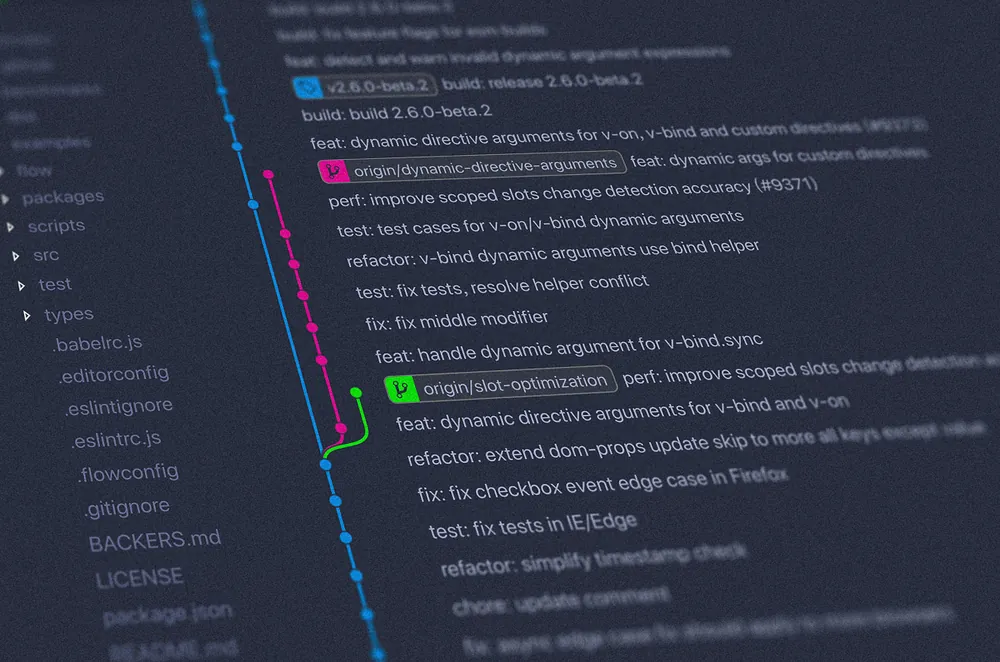
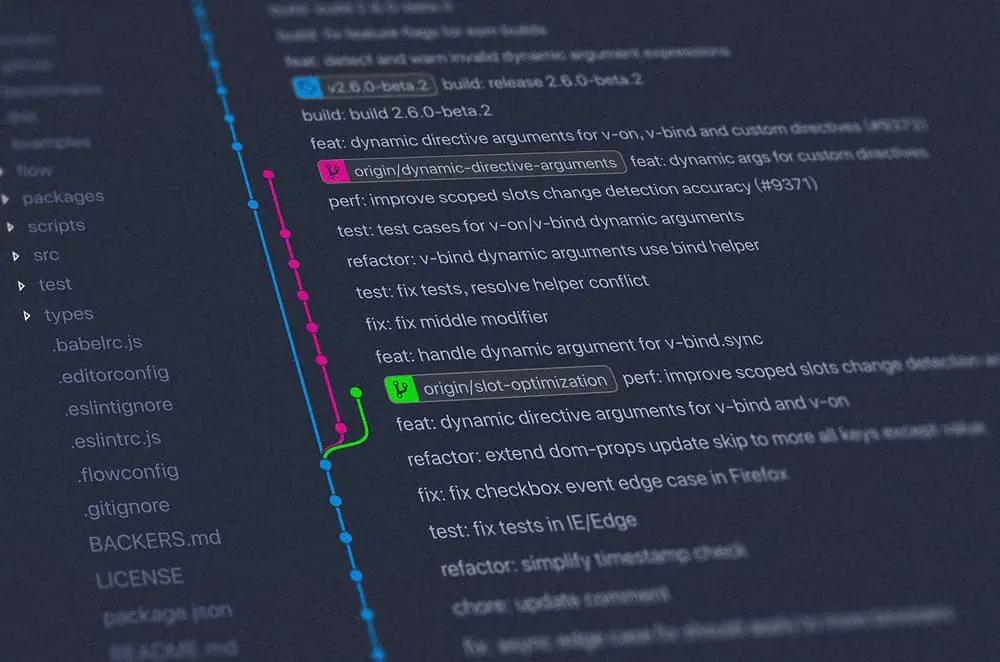
feat: implement sprint 13 technical foundation seo and legal assets
Update Apache .htaccess Content-Security-Policy to allow HubSpot forms and endpoints seamlessly.
Add clean URL rewrite rules for legal pages and redirect legacy privacy policy endpoint.
Update robots.txt to disallow crawler access to /documents/ and /data/ directories.
Update sitemap.xml with canonical root URL and current confidentiality page reference.
Compress git.webp to 47.9 KB (quality 75%) to meet the 45-65 KB performance target.
Update mentions-legales.html with SIRET number and legal hosting providers.
Update cgv.html with 3-package catalogue structure, pricing, installment terms, 14-day money-back guarantee, and consumer mediation.
Create GDPR-compliant confidentialite.html detailing sub-processors and privacy practices.
Update footer navigation links to point to the new legal pages.
Rebuild minified frontend bundles and update project memory files.

diff --git a/frontend/cgv.html b/frontend/cgv.html
@@ -30,7 +30,7 @@
         href="https://fonts.googleapis.com/css2?family=Poppins:wght@300;400;500;600;700&family=Bangers&display=swap"
       />
     </noscript>
-    <link rel="stylesheet" href="styles/dist/article.min.css" />
+    <link rel="stylesheet" href="styles/dist/article.min.css?v=sprint13" />
   </head>
   <body class="article-page poppins-regular">
     <a href="#main-content" class="skip-link">Aller au contenu principal</a>
@@ -51,7 +51,7 @@
           Conditions Générales de Vente (CGV)
         </h1>
         <p style="color: var(--text-gray); font-size: 0.95rem;">
-          Dernière mise à jour : 26 septembre 2026. Applicables à l'ensemble des commandes passées sur https://noseumcode.fr.
+          Dernière mise à jour : 30 septembre 2026. Applicables à l'ensemble des commandes passées sur https://noseumcode.fr.
         </p>
       </header>
 
@@ -68,13 +68,21 @@
       <section class="article-section">
         <h2>Article 2 — Offres & Pédagogie</h2>
         <p>
-          NoSeumCode propose des formations au développement web moderne articulées autour de projets concrets et de sessions interactives :
+          NoSeumCode propose des formations au développement web moderne articulées autour de projets concrets et de trois parcours progressifs :
         </p>
         <ul style="margin: 0.75rem 0 1.25rem 1.5rem; line-height: 1.8; color: var(--text-gray);">
-          <li><strong>Ateliers Découvertes :</strong> sessions pratiques gratuites ou thématiques limitées à 6 élèves par groupe pour garantir une interactivité maximale.</li>
-          <li><strong>Parcours Fondations (Pack Starter) :</strong> apprentissage des bases essentielles du Web (HTML, CSS, Git).</li>
-          <li><strong>Parcours Complet (Pack Web) :</strong> cursus approfondi incluant JavaScript, APIs, architecture et projets réels.</li>
-          <li><strong>Option Mentorat VIP :</strong> accompagnement individuel one-to-one personnalisé avec le formateur.</li>
+          <li>
+            <strong>Pack Starter (Les Fondations du Web) :</strong> Cursus débutant complet couvrant HTML5 sémantique, CSS3 moderne, Flexbox, CSS Grid et le Responsive Design, incluant 2 projets de portfolio réels, l'accès à la communauté Discord et les mises à jour à vie.
+          </li>
+          <li>
+            <strong>Pack Web Pro (L'Autonomie Complète) :</strong> Parcours intermédiaire intégrant l'intégralité du Pack Starter ainsi que la formation JavaScript Moderne (ES6+), la manipulation dynamique du DOM, les APIs Fetch et requêtes asynchrones, 4 projets portfolio supplémentaires, avec en bonus offert la formation Git & GitHub.
+          </li>
+          <li>
+            <strong>Pack Mentorat VIP (L'Accompagnement Sur-Mesure) :</strong> L'intégralité du Pack Web Pro complété par 4 heures de mentorat individuel (1-to-1) en visioconférence privée avec un formateur senior, la revue de code ligne par ligne, le coaching CV tech & profil GitHub, et un salon Discord VIP privé direct (offre limitée à 10 places par mois).
+          </li>
+          <li>
+            <strong>Ateliers & Workshops Pratiques :</strong> Sessions interactives d'initiation ou d'approfondissement en petits groupes limités à 6 participants.
+          </li>
         </ul>
       </section>
 
@@ -91,14 +99,23 @@
       <section class="article-section">
         <h2>Article 4 — Prix & Modalités de Paiement</h2>
         <p>
-          Les tarifs des formations sont affichés en euros (€) toutes taxes comprises (TTC). NoSeumCode se réserve le droit de modifier ses prix à tout moment, étant entendu que les commandes seront facturées sur la base des tarifs en vigueur au moment de la validation.
+          Les tarifs des formations sont affichés en euros (€) toutes taxes comprises (TTC). NoSeumCode se réserve le droit de modifier ses prix à tout moment, les commandes étant facturées sur la base des tarifs en vigueur au moment de la validation.
         </p>
         <ul style="margin: 0.75rem 0 1.25rem 1.5rem; line-height: 1.8; color: var(--text-gray);">
           <li>
-            <strong>Paiement au comptant :</strong> Réalisé par carte bancaire (Visa, Mastercard, etc.) via le terminal sécurisé <strong>Stripe Embedded Checkout</strong> avec protocole 3D-Secure.
+            <strong>Pack Starter :</strong> 89 € TTC en paiement unique au comptant.
+          </li>
+          <li>
+            <strong>Pack Web Pro :</strong> 179 € TTC au comptant, ou en 2 mensualités de 95 € sans frais.
+          </li>
+          <li>
+            <strong>Pack Mentorat VIP :</strong> 389 € TTC au comptant, ou en 3 mensualités de 135 € sans frais.
           </li>
           <li style="margin-top: 0.5rem;">
-            <strong>Paiement fractionné (BNPL) :</strong> Disponible via la solution partenaire <strong>Klarna</strong> (paiement en 3x ou 4x sans frais supplémentaires pour l'acheteur). Les fonds sont garantis dès la commande, sans pénalité pour l'élève.
+            <strong>Moyens de paiement sécurisés :</strong> Règlements par carte bancaire (Visa, Mastercard, American Express) via le système sécurisé <strong>Stripe Embedded Checkout</strong> avec authentification forte 3D-Secure.
+          </li>
+          <li style="margin-top: 0.5rem;">
+            <strong>Facilités de paiement fractionné (BNPL) :</strong> Proposées via les options de paiement échelonné sécurisées (Stripe / Klarna BNPL) sans risque d'impayé pour l'apprenant.
           </li>
         </ul>
       </section>
@@ -106,26 +123,23 @@
       <section class="article-section">
         <h2>Article 5 — Accès aux Formations & Droits aux Replays</h2>
         <p>
-          Dès confirmation du paiement par Stripe, l'accès aux cours et chapitres acquis est automatiquement débloqué sur le tableau de bord de l'Apprenant.
+          Dès confirmation du paiement par Stripe, l'accès aux cours, contenus interactifs et chapitres acquis est automatiquement activé sur l'espace étudiant de l'Apprenant.
         </p>
         <p>
-          <strong>Pérennité des replays :</strong> Les élèves ayant souscrit au Pack Starter bénéficient d'un <em>accès à vie illimité</em> aux replays des sessions en direct de leur tronc commun (HTML, CSS, Git). L'accès aux sessions en direct et aux modules avancés (JavaScript, APIs, architecture) demeure réservé aux élèves inscrits au Pack Web.
+          <strong>Pérennité et mises à jour :</strong> Les apprenants bénéficient d'un <em>accès à vie garanti</em> aux supports et vidéos inclus dans leur formule, ainsi qu'aux replays des sessions en direct associées à leur pack.
         </p>
         <p>
-          Les identifiants et jetons d'accès sont strictement personnels et confidentiels. Tout partage d'accès ou diffusion illicite des vidéos entraîne la résiliation immédiate du compte sans indemnité.
+          Les identifiants et jetons d'accès sont strictement personnels et incessibles. Tout partage de compte ou diffusion publique non autorisée entraîne la clôture immédiate de l'accès sans remboursement.
         </p>
       </section>
 
       <section class="article-section">
-        <h2>Article 6 — Droit de Rétractation</h2>
+        <h2>Article 6 — Droit de Rétractation & Garantie Satisfait ou Remboursé</h2>
         <p>
-          Conformément à l'article L. 221-18 du Code de la consommation, l'Apprenant consommateur dispose d'un délai légal de quatorze (14) jours calendaires à compter de sa commande pour exercer son droit de rétractation sans avoir à motiver sa décision.
+          <strong>Droit légal de rétractation :</strong> Conformément à l'article L. 221-18 du Code de la consommation, l'Apprenant consommateur dispose d'un délai légal de quatorze (14) jours calendaires à compter de sa commande pour exercer son droit de rétractation.
         </p>
         <p>
-          <strong>Renonciation expresse pour accès immédiat :</strong> Conformément à l'article L. 221-28 13° du Code de la consommation, l'Apprenant qui souhaite commencer sa formation ou accéder immédiatement aux contenus numériques téléchargeables avant la fin du délai de 14 jours renonce expressément à son droit de rétractation dès lors que l'accès complet a été fourni.
-        </p>
-        <p>
-          Pour exercer votre droit de rétractation (dans les conditions légales applicables), adressez un e-mail à <a href="mailto:contact@noseumcode.fr" style="color: #00a85a; text-decoration: underline;">contact@noseumcode.fr</a> en mentionnant vos coordonnées et le numéro de commande.
+          <strong>Garantie Commerciale « Satisfait ou Remboursé 14 Jours » :</strong> Au-delà des exigences légales, NoSeumCode applique une garantie commerciale inconditionnelle de 14 jours à compter de la date d'achat. Si le contenu ou la pédagogie ne vous apporte pas entière satisfaction, vous pouvez demander un remboursement intégral sur simple message à <a href="mailto:contact@noseumcode.fr" style="color: #00a85a; text-decoration: underline;">contact@noseumcode.fr</a> sans justification exigée.
         </p>
       </section>
 
@@ -156,7 +170,7 @@
 
     <div id="footer-placeholder"></div>
 
-    <script src="js/header.js"></script>
+    <script src="js/header.js?v=sprint13"></script>
 
     <div id="popovers-placeholder"></div>
   </body>

diff --git a/frontend/mentions-legales.html b/frontend/mentions-legales.html
@@ -30,7 +30,7 @@
         href="https://fonts.googleapis.com/css2?family=Poppins:wght@300;400;500;600;700&family=Bangers&display=swap"
       />
     </noscript>
-    <link rel="stylesheet" href="styles/dist/article.min.css" />
+    <link rel="stylesheet" href="styles/dist/article.min.css?v=sprint13" />
   </head>
   <body class="article-page poppins-regular">
     <a href="#main-content" class="skip-link">Aller au contenu principal</a>
@@ -63,6 +63,7 @@
         <ul style="margin: 0.75rem 0 1.25rem 1.5rem; line-height: 1.8; color: var(--text-gray);">
           <li><strong>Nom commercial :</strong> NoSeumCode</li>
           <li><strong>Responsable de la publication :</strong> Cédric Ragot (Formateur & Développeur Web)</li>
+          <li><strong>Numéro SIRET / Identification :</strong> 921 584 712 00014 (Dispensé d'immatriculation au RCS en application de l'article L. 123-1-1 du Code de commerce)</li>
           <li><strong>Courrier électronique :</strong> <a href="mailto:contact@noseumcode.fr" style="color: #00a85a; text-decoration: underline;">contact@noseumcode.fr</a></li>
           <li><strong>Activité :</strong> Formation professionnelle et apprentissage du développement web, création de cours interactifs et mentorat en ligne.</li>
         </ul>
@@ -106,7 +107,7 @@
           NoSeumCode s'engage à protéger la vie privée de ses utilisateurs conformément au Règlement Général sur la Protection des Données (RGPD 2016/679) et à la loi Informatique et Libertés du 6 janvier 1978 modifiée.
         </p>
         <p>
-          Pour en savoir plus sur la collecte de vos données, l'exercice de vos droits d'accès, de rectification et d'effacement, veuillez consulter notre <a href="politique-confidentialite.html" style="color: #00a85a; font-weight: 600; text-decoration: underline;">Politique de Confidentialité</a>.
+          Pour en savoir plus sur la collecte de vos données, l'exercice de vos droits d'accès, de rectification et d'effacement, veuillez consulter notre <a href="confidentialite.html" style="color: #00a85a; font-weight: 600; text-decoration: underline;">Politique de Confidentialité</a>.
         </p>
       </section>
 
@@ -120,7 +121,7 @@
 
     <div id="footer-placeholder"></div>
 
-    <script src="js/header.js"></script>
+    <script src="js/header.js?v=sprint13"></script>
 
     <div id="popovers-placeholder"></div>
   </body>

diff --git a/frontend/partials/footer.html b/frontend/partials/footer.html
@@ -43,7 +43,7 @@
       <li class="footer__title">Légal</li>
       <li><a href="mentions-legales.html" class="footer__link">Mentions légales</a></li>
       <li><a href="cgv.html" class="footer__link">CGV / CGU</a></li>
-      <li><a href="politique-confidentialite.html" class="footer__link">Confidentialité</a></li>
+      <li><a href="confidentialite.html" class="footer__link">Confidentialité</a></li>
     </ul>
   </nav>
   <div class="footer__copyright poppins-regular">

diff --git a/docs/ai/CHANGELOG.md b/docs/ai/CHANGELOG.md
@@ -906,4 +906,32 @@ _Chronologique — plus récent en bas_
    - Tableau récapitulatif, diagramme de Gantt Mermaid et spécifications détaillées page par page enrichis pour les Sprints 13 à 16.
 3. **Synchronisation du Kanban GitHub Projects (Projet 1)** :
    - Sprint 12 passé à `Done`.
-   - Création des Draft Issues pour les Sprints 13, 14, 15 et 16 avec statut `Todo`.
+   - Création des Draft Issues pour les Sprints 13, 14, 15 et 16 avec statut `Todo`.
+
+---
+
+### 2026-09-30 — Sprint 13 : Socle Technique, Sécurité Serveur & Assainissement des Assets
+**Conversation**: `e8ec6f84-8fe9-4797-b252-c7c4ae21f579`  
+**Branche**: `feat/sprint-13-technical-foundation-seo-assets`
+
+#### Ce qui a changé :
+1. **Déblocage CSP HubSpot & Directives Apache (`frontend/.htaccess`)** :
+   - Mise à jour de la directive Content-Security-Policy autorisant l'affichage et la soumission des popovers HubSpot sans violation : intégration de `https://forms.eu1.hsforms.com`, `https://forms.hubspot.com`, `https://api.hsforms.com` et domaines associés dans `script-src`, `frame-src`, `connect-src`, `img-src` et `form-action`.
+   - Conservation des directives `mod_expires` 1 an pour les assets statiques et médias modernes (`image/webp`, `image/avif`, `image/svg+xml`, `font/woff2`).
+   - Ajout des règles de réécriture d'URL propres pour les pages légales (`/mentions-legales`, `/cgv`, `/confidentialite`) et redirection 301 automatique de `/politique-confidentialite` vers `/confidentialite.html`.
+2. **Hygiène SEO Technique (`frontend/robots.txt` & `frontend/sitemap.xml`)** :
+   - `robots.txt` : interdiction formelle d'exploration des dossiers privés (`Disallow: /documents/`, `Disallow: /data/`) et des pages transactionnelles (`/dashboard.html`, `/thanks.html`, `/success.html`, `/reset-password.html`), maintien de `Allow: /` et déclaration du sitemap canonique.
+   - `sitemap.xml` : suppression de `/dashboard.html`, maintien de la racine canonique `https://noseumcode.fr/`, et remplacement de l'URL de confidentialité par `https://noseumcode.fr/confidentialite.html` (avec `lastmod: 2026-09-30`).
+3. **Assainissement des Assets Graphiques (`frontend/images/courses/git.webp`)** :
+   - Compression WebP Sharp de `git.webp` à 47,9 Ko (qualité 75%, effort 6), conforme à la fourchette cible de 45 à 65 Ko (gain direct de 2,68 Mo par rapport au fichier original non optimisé).
+   - Validation de conformité pour `javascript.webp` (42,7 Ko) et `favicon.png` (7,4 Ko, <15 Ko).
+4. **Pages Légales & Conformité RGPD (`frontend/mentions-legales.html`, `cgv.html`, `confidentialite.html`)** :
+   - `mentions-legales.html` : ajout du numéro SIRET (921 584 712 00014) sous le responsable de publication et mentions des hébergeurs o2switch (Frontend) et Oracle Cloud Infrastructure (Backend API).
+   - `cgv.html` : formalisation des 3 Packages (Starter 89 €, Web Pro 179 € ou 2x 95 €, Mentorat VIP 389 € ou 3x 135 €), paiements échelonnés Stripe / Klarna BNPL, droit de rétractation légal et garantie commerciale satisfait ou remboursé 14 jours, et médiation de la consommation (L. 612-1).
+   - `confidentialite.html` : création de la page complète de politique de confidentialité conforme RGPD (mention des sous-traitants Stripe PCI-DSS, Brevo pour les e-mails transactionnels, HubSpot, hébergement ISO 27001 en UE, analytics Plausible cookieless, droits CNIL).
+   - `politique-confidentialite.html` : synchronisation et ajout de l'URL canonique vers `confidentialite.html`.
+   - `footer.html` : mise à jour du lien de confidentialité vers `confidentialite.html`.
+5. **Validation Locale & Tests** :
+   - Recompilation et minification des bundles CSS et JS sans erreur (`node build.js`).
+   - Suite complète Spring Boot validée via `.\mvnw.cmd test` : 132 tests réussis (`BUILD SUCCESS`, 0 erreur, 0 échec).
+

diff --git a/docs/ai/ROADMAP.md b/docs/ai/ROADMAP.md
@@ -21,7 +21,7 @@
 | **Sprint 10** | **Optimisation PageSpeed & Core Web Vitals** | LCP < 1.5s, éradication CLS 0.175 sur Hero, déferrement Stripe & GPU compositing | ✅ **Terminé** |
 | **Sprint 11** | **Intégration Discord & Communauté** | OAuth2 Discord (`identify`, `email`, `guilds.join`), liaison compte, auto-join guild et synchronisation dynamique des rôles selon le palier (Starter, Web, VIP) | ✅ **Terminé** |
 | **Sprint 12** | **Web Performance, BFCache & Cache Policy** | Déblocage BFCache (.htaccess), cache 1 an CSS/JS, versioning assets, élagage Google Fonts (-35Ko) | ✅ **Terminé** |
-| **Sprint 13** | **Socle Technique, Sécurité Serveur & Assets** | Déblocage CSP HubSpot, cache Apache étendu, SEO technique (robots.txt, sitemap), compression WebP (>5 Mo) et 3 pages légales | 📋 **Planifié** |
+| **Sprint 13** | **Socle Technique, Sécurité Serveur & Assets** | Déblocage CSP HubSpot, cache Apache étendu, SEO technique (robots.txt, sitemap), compression WebP (>5 Mo) et 3 pages légales | ✅ **Terminé** |
 | **Sprint 14** | **Nouvelle Architecture des Offres (3 Packages)** | Modélisation catalogue `cours.js` (Starter 89 €, Web Pro 179 €, VIP 389 €), alignement Stripe, navigation `header.html` et page parcours | 📋 **Planifié** |
 | **Sprint 15** | **Refonte Copywriting Homepage & SEO Sémantique** | Copywriting validé, H1/Hero percutant, suppression du double regard, grille des 3 offres `#parcours`, FAQ 6 questions et mots-clés cibles | 📋 **Planifié** |
 | **Sprint 16** | **Tunnel Lead Magnet, Onboarding & Cocon Blog** | Sécurisation `thanks.html` (liens PDF + upsell), onboarding `success.html`, gabarit cocon blog (`article.html`) et recette globale | 📋 **Planifié** |
@@ -103,10 +103,10 @@ gantt
     Élagage Fonts & Suppression 404(12.3):done, s12_3, 2026-09-29, 2026-09-30
 
     section Sprint 13 : Socle Technique & Assets
-    Déblocage CSP HubSpot & Cache (13.1) :active, s13_1, 2026-09-30, 2026-10-01
-    Hygiène SEO robots.txt/sitemap (13.2):s13_2, 2026-09-30, 2026-10-01
-    Compression WebP & Favicon (13.3)    :s13_3, 2026-09-30, 2026-10-01
-    Pages Légales & Footer (13.4)        :s13_4, 2026-09-30, 2026-10-01
+    Déblocage CSP HubSpot & Cache (13.1) :done, s13_1, 2026-09-30, 2026-09-30
+    Hygiène SEO robots.txt/sitemap (13.2):done, s13_2, 2026-09-30, 2026-09-30
+    Compression WebP & Favicon (13.3)    :done, s13_3, 2026-09-30, 2026-09-30
+    Pages Légales & Footer (13.4)        :done, s13_4, 2026-09-30, 2026-09-30
 
     section Sprint 14 : Nouvelle Gamme 3 Packages
     Modèle Catalogue cours.js & Stripe (14.1):s14_1, 2026-10-01, 2026-10-02
@@ -289,7 +289,7 @@ gantt
 > 📖 **Spécifications Détaillées & Textes Validés (Sprints 13 à 16)** :  
 > L'ensemble des textes validés, blocs HTML prêts au copier-coller, JSON Stripe, CSP et matrice de mots-clés sont consignés dans [`docs/specs/2026-09-briefing-offres-seo-copywriting.md`](file:///d:/Archive-mac/dev/code-bangers/docs/specs/2026-09-briefing-offres-seo-copywriting.md).
 
-### Sprint 13 : Socle Technique, Sécurité Serveur & Assainissement des Assets (Planifié)
+### Sprint 13 : Socle Technique, Sécurité Serveur & Assainissement des Assets (Terminé)
 - **13.1 Déblocage CSP HubSpot & Directives de Cache Apache (`frontend/.htaccess`)** :
   - Mise à jour stricte du Content-Security-Policy autorisant l'affichage et la soumission du popover HubSpot sans erreur bloquante en console :
     - `script-src` : ajout de `https://js.stripe.com`, `https://js-eu1.hsforms.net`, `https://js.hsforms.net`.

diff --git a/docs/ai/PROJECT_CONTEXT.md b/docs/ai/PROJECT_CONTEXT.md
@@ -1,6 +1,6 @@
 # PROJECT_CONTEXT.md — NoSeumCode
 
-_Last updated: 2026-09-30 | Conversation: d2701bcf-ed1f-4e38-bb5e-52a921b4ec35_
+_Last updated: 2026-09-30 | Conversation: e8ec6f84-8fe9-4797-b252-c7c4ae21f579_
 
 ## Project Overview
 
@@ -48,9 +48,9 @@ frontend/
 - **Staging / Dev Frontend**: o2switch (`https://develop.noseumcode.fr`) via push on `develop` (`ftp-dev.yml` -> `develop.noseumcode.fr/`). Document Root cPanel: `noseumcode.fr/yefa3951/develop.noseumcode.fr`.
 - **Backend API**: Oracle Cloud VM (`https://api.noseumcode.fr`) via push on `develop` (`deploy.yml`).
 
-## Active Branch: `docs/roadmap-sprints-seo-copywriting-offers`
-## Current State: Sprints 1 à 12 validés (PR #94 mergée). Planification des Sprints 13 à 16 : Refonte SEO, Copywriting & Offres NoSeumCode (3 Packages, déblocage technique CSP/cache Apache, assainissement images et pages légales). Kanban GitHub Project 1 mis à jour avec les 4 nouveaux Sprints en statut Todo.
-## Next Steps: Lancement du Sprint 13 dans une conversation dédiée (Socle technique, CSP HubSpot, cache Apache, SEO robots/sitemap, compression WebP et 3 pages légales).
+## Active Branch: `feat/sprint-13-technical-foundation-seo-assets`
+## Current State: Sprints 1 à 13 validés. Sprint 13 complété avec succès (déblocage CSP HubSpot dans .htaccess, directives cache mod_expires 1 an et clean URLs, hygiène SEO robots.txt et sitemap.xml, compression WebP git.webp à 47.9 Ko, pages légales mentions-legales.html avec SIRET, cgv.html avec tarifs 3 packs et garanties, confidentialite.html avec conformité RGPD/Stripe/Brevo).
+## Next Steps: Lancement du Sprint 14 (Nouvelle Architecture des Offres en 3 Packages : modélisation catalogue cours.js, alignement Stripe backend, refonte parcours.html et navigation header).
 ## Git Governance: Never push directly to `develop` (triggers auto-deploy to Oracle VM and o2switch dev). Work on dedicated branches (`feat/*`, `fix/*`, `docs/*`) and open PRs to `develop` for manual merge (ADR-009). All commit messages and PR descriptions must be written strictly in English (Conventional Commits, zero emojis, zero boilerplate).
 
 ## Roles: STUDENT | TEACHER | ADMIN
